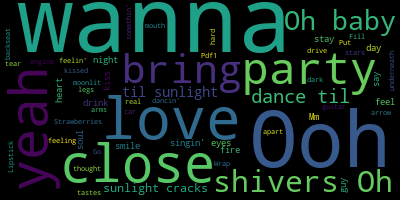
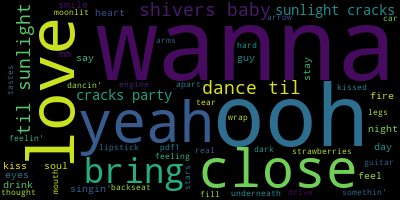
submitted

diff --git a/HTTPHandler.py b/HTTPHandler.py
@@ -4,6 +4,7 @@ from pdfminer import high_level
 import pathlib
 from urllib.parse import urlparse
 
+
 # get all pdf files recursively
 def get_all_pdf_files():
     all_files = []
@@ -65,8 +66,10 @@ def create_home_page(all_pdf_files):
         pdf_name = pathlib.Path(*pdf_name.parts[1:])  # remove pdfs// from path
         pdf_name = str(pdf_name)
         # pdf_name = pdf_file_path[5:]
-        pdf_name_without_ext = "\'" + os.path.splitext(pdf_name)[0] + "\'"
-        pdf_name_without_ext = pdf_name_without_ext.replace('\\', '/')
+        pdf_name_without_ext = os.path.splitext(pdf_name)[0]
+        pdf_name_without_ext = '\'' + pdf_name_without_ext + '\''
+        if os.sep == '\\':  # windows
+            pdf_name_without_ext = pdf_name_without_ext.replace('\\', '/')
         content_li = "<li><button onclick=\"myFunction(" + pdf_name_without_ext + ")\">" + pdf_name + "</button></li>\n"
         content += content_li
     content += "</ul>\n\
@@ -84,9 +87,11 @@ def create_home_page(all_pdf_files):
 def pdf_to_wordcloud(pdf_path, stop_words_list):
     pdf_name = os.path.split(pdf_path)[1]
     pdf_string = high_level.extract_text(pdf_path)
+    pdf_string = pdf_string.lower()  # all lower case, wordcloud will be lower case
     pdf_string_filtered = [word for word in pdf_string.split() if not word in stop_words_list]
     pdf_string_filtered = " ".join(pdf_string_filtered)
     saving_folder_png = os.path.join('html_pages', 'png_images')
+    os.makedirs(saving_folder_png, exist_ok=True)
     png_path = os.path.join(saving_folder_png, os.path.splitext(pdf_name)[0] + '.png')
     hw1_utils.generate_wordcloud_to_file(pdf_string_filtered, png_path)
     return png_path
@@ -96,9 +101,9 @@ class HTTPHandler:
     def get(self, filename, file_type):
         with open('stopwords.txt') as text_file:
             stop_words_list = text_file.read().split()
-        # if not os.path.isdir('pdfs'): # pdfs folder doesnt exist
-        #    print('pdfs folder dosn\'t exist')
-        #    raise FileNotFoundError
+        if not os.path.isdir('pdfs'): # pdfs folder doesnt exist
+           print('pdfs folder dosn\'t exist')
+           raise FileNotFoundError
         all_pdf_files = get_all_pdf_files()
         if file_type.find("image") == -1:
             if filename == '/':
